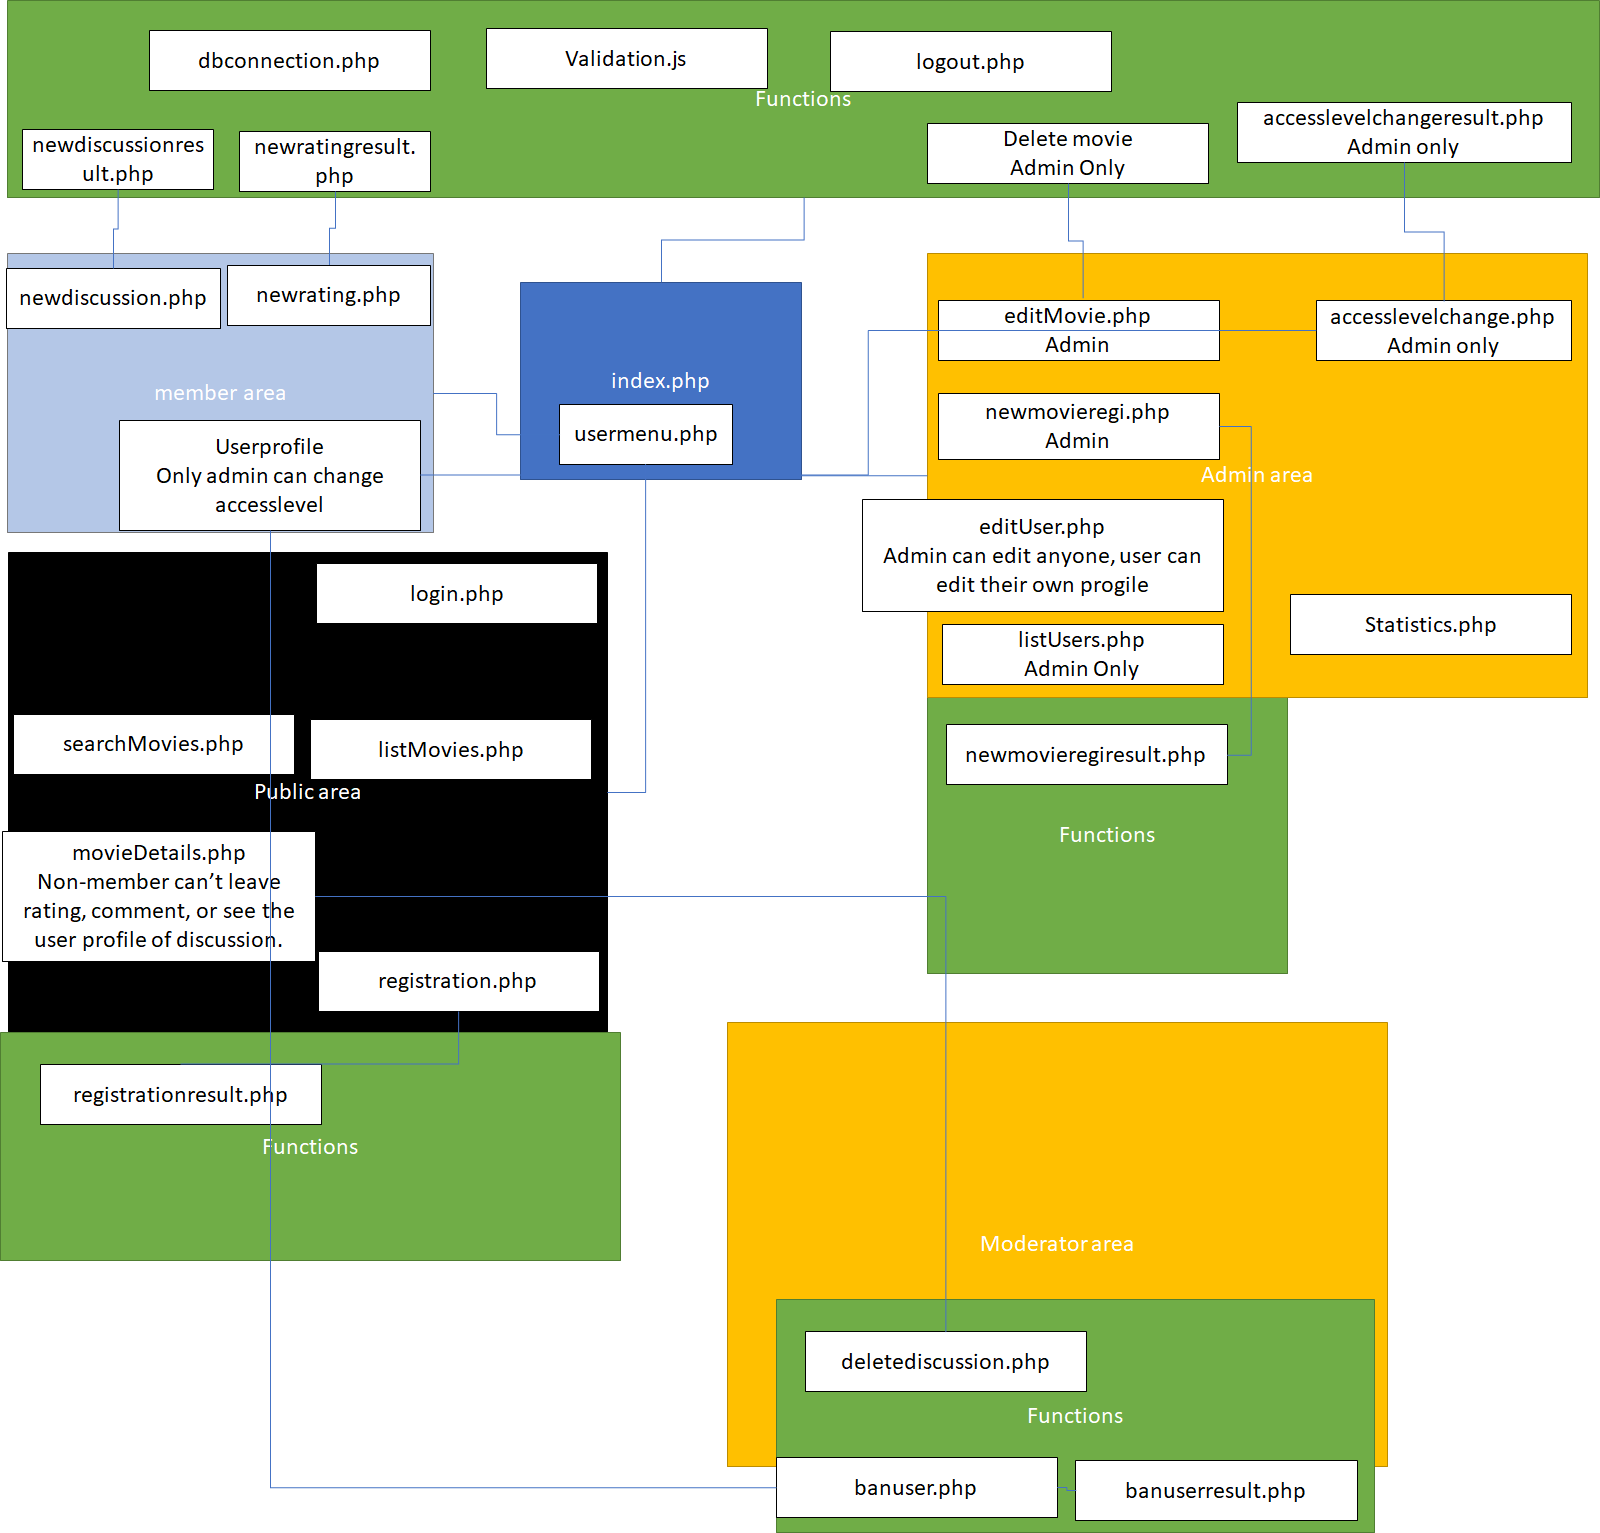
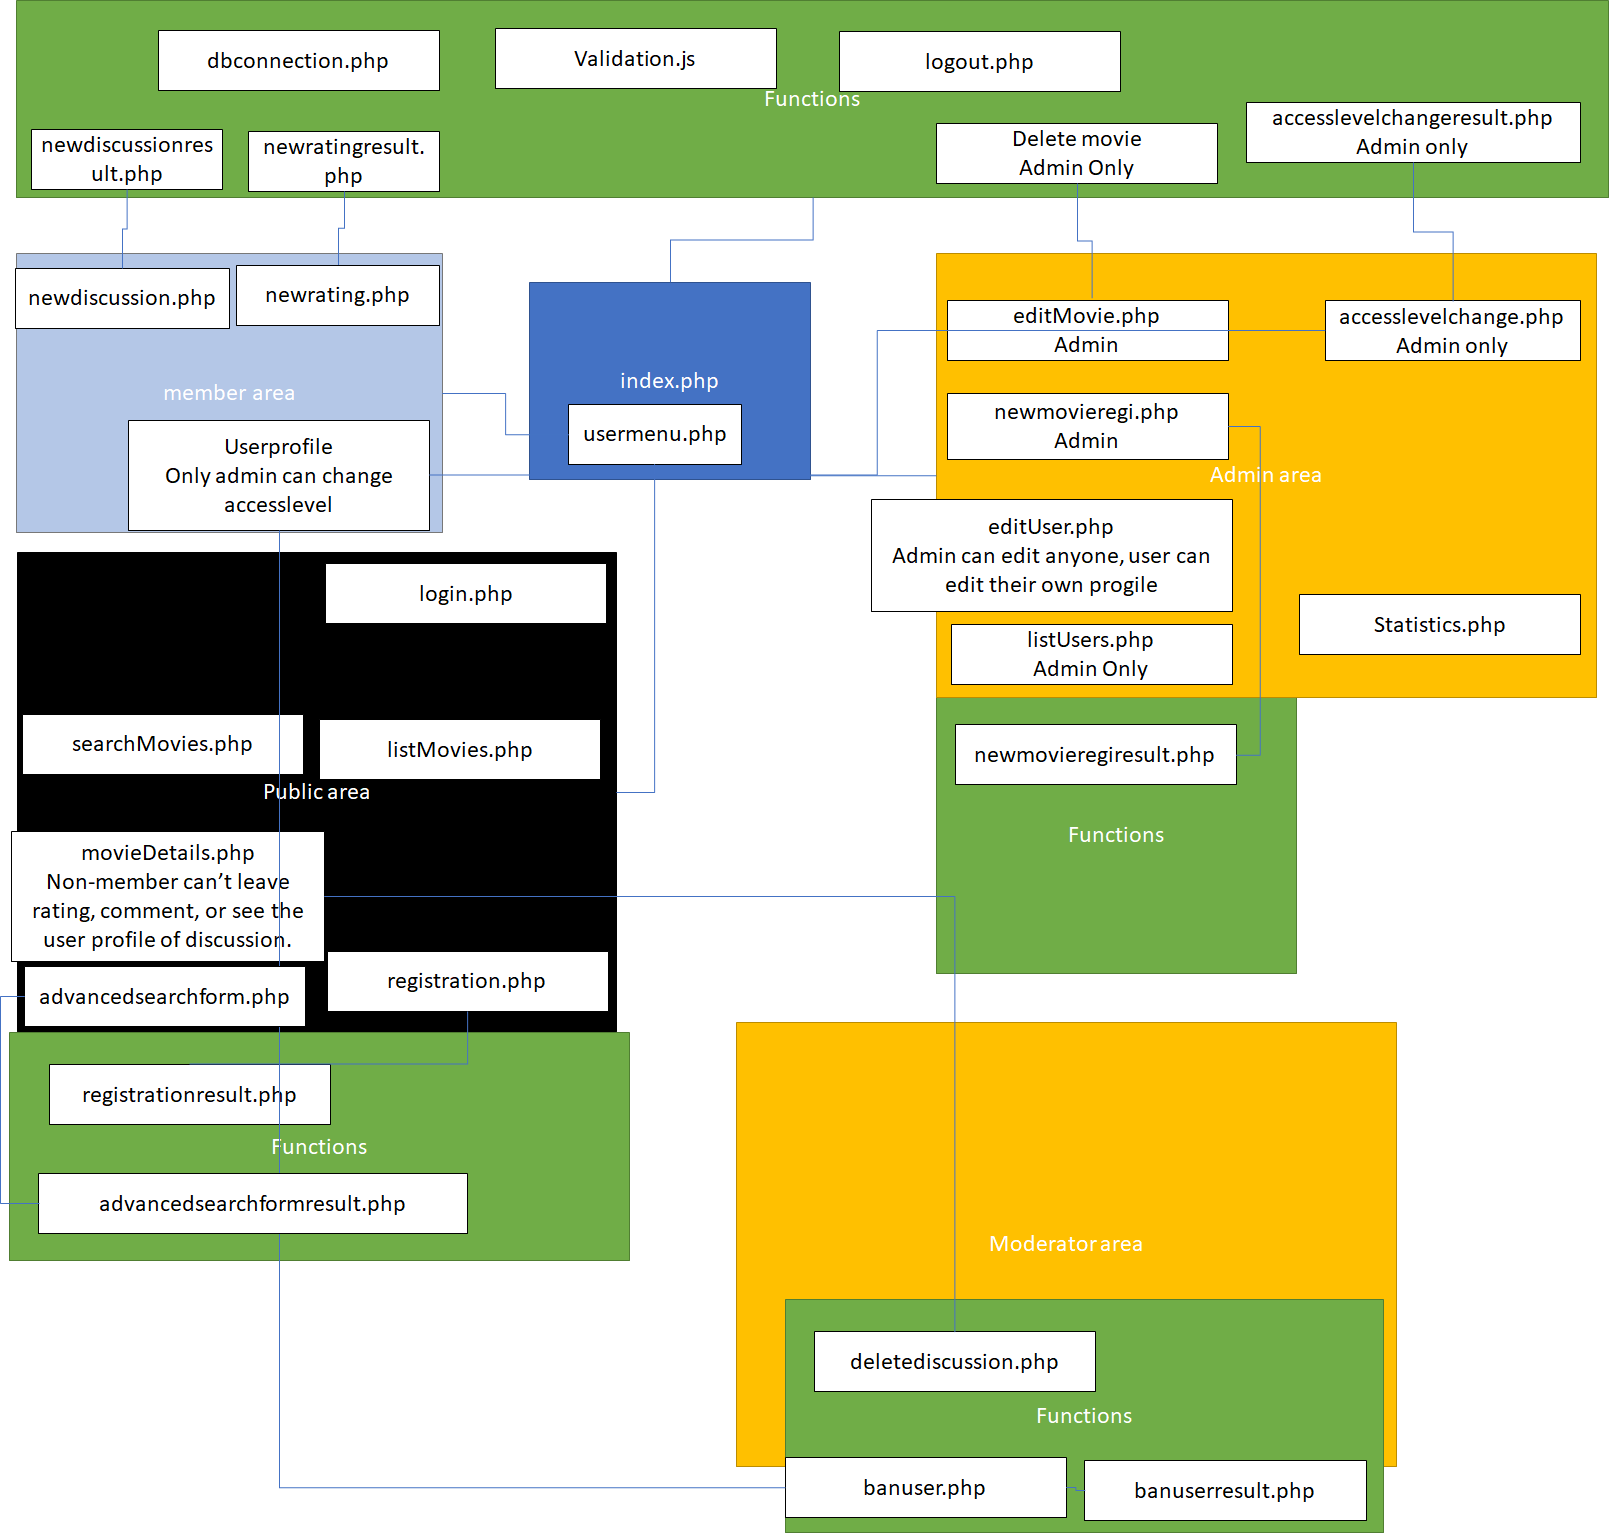
php/advancedsearchform.php initialised

diff --git a/js/validation.js b/js/validation.js
@@ -191,4 +191,20 @@ function ValidatebanuserForm()
 	document.banuser.banreason.focus();
 	return false;
 	}
+
+	alert('Search Term field cannot be blank.');
+
+}
+
+// Validate php/advancedsearchform.php
+
+function ValidateadvancedsearchForm()
+{
+
+	if (document.advancedsearchForm.searchterm.value == '')
+	{
+		alert('Search Term field cannot be blank.');
+	document.advancedsearchForm.searchterm.focus();
+	return false;
+	}
 }

diff --git a/php/advancedsearchresult.php b/php/advancedsearchresult.php
@@ -1,0 +1,181 @@
+<?php
+// connect to database
+require '../func/dbconnection.php';
+
+// Start or resume a session
+if (session_status() == PHP_SESSION_NONE) {
+  session_start();
+}
+
+// Check the access level
+if (!isset($_SESSION['level']))
+{
+  $_SESSION['level'] = '';
+}
+?>
+
+<!DOCTYPE html>
+<html>
+<head>
+  <title>Advanced search result</title>
+  <style type="text/css">
+    th,td {border: 1px solid black; width: 150px;}
+  </style>
+</head>
+
+<body>
+
+<?php require 'navigationbar.php'; ?>
+
+<div class="container">
+
+
+<h2><strong>Advanced search result</strong></h2>
+
+<?php
+  //  delete user if del_id GET data exists
+  if (isset($_GET['del_id']) && ($_SESSION['level'] == 'admin'))
+  {
+	  
+	  $del_query = 'DELETE FROM movies WHERE movie_id = '.$_GET['del_id'];
+    $del_results = mysqli_query($connection,$del_query);
+
+    $del_rating_query = 'DELETE FROM ratings WHERE movie_id = '.$_GET['del_id'];
+    $del_rating_results = mysqli_query($connection,$del_rating_query);
+
+    $del_discussion_query = 'DELETE FROM discussion WHERE movie_id = '.$_GET['del_id'];
+    $del_discussion_results = mysqli_query($connection,$del_discussion_query);
+
+  }
+  
+
+
+
+//   Validation.
+
+$searchterm = $_POST['searchterm'];
+$directorwriters_query = '';
+$plotsummary_query = '';
+$releaseyearvalue_query = '';
+$durationvalue_query = '';
+
+
+// directorwriters value if checked
+if (isset($_POST['directorwriters']))
+{
+    $directorwriters = $_POST['directorwriters'];
+    $directorwriters_query = "OR director LIKE '%".$searchterm."%' OR writers LIKE '%".$searchterm."%' ";
+}
+// plotsummary value if checked
+if (isset($_POST['plotsummary']))
+{
+    $plotsummary = $_POST['plotsummary'];
+    $plotsummary_query = "OR summary LIKE '%".$searchterm."%' ";
+}
+
+
+    // we create this variable and set it to an empty string... if it remains empty by the end
+    // of our validation code, then there was no error found
+    $error_message = '';
+
+// release year checkbox
+if (isset($_POST['releaseyear']) && $_POST['releaseyear'] != 'notimportant')
+{
+    $releaseyear = $_POST['releaseyear'];
+
+    // release year value
+    if (isset($_POST['releaseyearvalue']) && $_POST['releaseyearvalue'] != '')
+    {
+        $releaseyearvalue = $_POST['releaseyearvalue'];
+        $releaseyearvalue_query = "AND release_year = ".$releaseyearvalue." ";
+    }
+    else
+    {
+        $error_message = 'Release year is empty.';
+    }
+}
+
+
+// duration checkbox
+if (isset($_POST['duration']) && $_POST['duration'] != 'notimportant')
+{
+    $duration = $_POST['duration'];
+    // duration value
+
+    if (isset($_POST['durationvalue']) && $_POST['durationvalue'] != '')
+    {
+        $durationvalue = $_POST['durationvalue'];
+        $durationvalue_query = "AND duration = ".$durationvalue." ";
+    }
+    else
+    {
+        $error_message = 'Duration is empty.';
+    }
+}
+
+
+ // if the error_message variable is not empty (i.e. an error has been found)
+  if ($error_message != '')
+  {
+    // we'll just provide the user with the error message and a back link if there is an error
+    // the exit command tells the server/PHP to stop processing the script at that point
+    echo 'Error: '.$error_message.' <a href="javascript: history.back();">Go Back</a>.';
+    echo '</body></html>';
+    exit;
+  }
+
+
+
+$query = "SELECT * FROM movies 
+        WHERE (movie_name LIKE '%".$searchterm."%' ".
+        $directorwriters_query.
+        $plotsummary_query.") ".
+        $releaseyearvalue_query.
+        $durationvalue_query."
+        ORDER BY movie_name";
+
+  
+  // execute the query
+  $results = mysqli_query($connection, $query);
+  
+  // show how many rows the query returned
+  echo '<p>'.$results->num_rows.' movies found.</p>';
+  
+  //start the table in which our user list will be shown
+  echo '<table><tr>';
+  echo '<th>Movie name</th><th>Release year</th><th>Manage</th>';
+  echo '</tr>';
+  
+  //  loop through the result and display them
+  while ($row = $results->fetch_assoc())
+  {
+      echo '<td>'.$row['movie_name'].'</td>';
+      echo '<td>'.$row['release_year'].'</td>';
+
+      echo '<td><a href="movieDetails.php?movie_id='.$row['movie_id'].'">Details</a> ';
+
+
+      if ( $_SESSION['level'] == 'admin' )
+      {
+        echo '<a href="editMovie.php?edit_id='.$row['movie_id'].'">Edit</a> ';
+      }
+
+      if ( $_SESSION['level'] == 'admin')
+      {
+        echo '<a href="listMovies.php?del_id='.$row['movie_id'].'"
+        onclick="return confirm(\'Are you sure you want to delete this user?\');">Delete</a>';
+      }
+
+      echo '</td></tr>';
+      
+
+
+      
+  }
+  echo '</table>';
+
+  ?>
+      </div>
+
+  </body>
+</html>

diff --git a/php/advancedsearchform.php b/php/advancedsearchform.php
@@ -1,0 +1,86 @@
+<?php
+// connect to database
+require '../func/dbconnection.php';
+
+// Start or resume a session
+if (session_status() == PHP_SESSION_NONE) {
+  session_start();
+}
+
+// Check the access level
+if (!isset($_SESSION['level']))
+{
+  $_SESSION['level'] = '';
+}
+?>
+
+<!DOCTYPE html>
+<html>
+<head>
+  <title>Advanced Search</title>
+  <style type="text/css">
+    /* th,td {border: 1px solid black; width: 150px;} */
+  </style>
+    <script src="../js/validation.js"></script>
+</head>
+
+<body>
+
+<?php require 'navigationbar.php'; ?>
+
+<div class="container">
+
+
+<h2><strong>Advanced Search</strong></h2>
+
+
+<!-- Form -->
+<form name="advancedsearchForm" method="post" action="advancedsearchresult.php" onsubmit="return ValidateadvancedsearchForm()">
+<table style="width: 80%">
+<tr>
+    <td>Search Term: </td>
+    <td><input type="text" name="searchterm" required/></td>
+  </tr>
+  <tr>
+    <td>Also Search: </td>
+    <td><input type="checkbox" name="directorwriters" value="directorwriters">Director/Writers    
+    <input type="checkbox" name="plotsummary" value="plotsummary">Plot Summary</td>
+  </tr>
+  <tr>
+    <td>Release Year: </td>
+    <td>
+        <select name="releaseyear">
+            <option value="notimportant" selected="selected">Not Important</option>
+            <option nvalue="lessthan">Less Than</option>
+            <option value="exactly">Exactly</option>
+            <option value="morethan">More Than</option>
+        </select>
+        <input type="text" name="releaseyearvalue" />
+    </td>
+  </tr>
+  <tr>
+    <td>Duration: </td>
+    <td>
+        <select name="duration">
+            <option value="notimportant" selected="selected">Not Important</option>
+            <option value="lessthan">Less Than</option>
+            <option value="exactly">Exactly</option>
+            <option value="morethan">More Than</option>
+        </select>
+        <input type="text" name="durationvalue" />
+
+    </td>
+  </tr>
+  <tr>
+    <td colspan="2" style="text-align: right">
+     <input type="submit">
+    </td>
+  </tr>
+  
+</table>
+</form>
+
+      </div>
+
+  </body>
+</html>

diff --git a/php/usermenu.php b/php/usermenu.php
@@ -8,6 +8,8 @@ if ( !isset($_SESSION['uname']) || $_SESSION['uname'] == '' )
 {
 	echo '* You are not logged in. Log in to see more options<br />';
 	echo '* <a href="php/listMovies.php">List Movie</a><br />';
+	echo '* <a href="php/advancedsearchform.php">Advanced Search</a><br />';
+
 }
 
 else
@@ -36,6 +38,7 @@ if ( $_SESSION['level'] == 'member' or $_SESSION['level'] == 'moderator')
 	echo '* <a href="php/editUser.php?edit_id='.$_SESSION['uname'].'">Edit Profile</a><br />';
 	echo '* <a href="php/userDetails.php?username='.$_SESSION['uname'].'">View Profile</a><br />';
 }	
+echo '* <a href="php/advancedsearchform.php">Advanced Search</a><br />';
 
 
 

diff --git a/php/navigationbar.php b/php/navigationbar.php
@@ -30,8 +30,15 @@ if ( $_SESSION['level'] == 'member' or $_SESSION['level'] == 'moderator' )
 	echo '<li class="nav-item"><a class="nav-link" href="editUser.php?edit_id='.$_SESSION['uname'].'">Edit Profile</a></li><br />';
 	echo '<li class="nav-item"><a class="nav-link" href="userDetails.php?username='.$_SESSION['uname'].'">View Profile</a></li><br />';
 }
+
+
+echo '<li class="nav-item">
+			<a class="nav-link" href="advancedsearchform.php">Advanced Search</a>
+		</li>';
+
 ?>
 	
+
 
 
 	<?php 

diff --git a/php/searchMovies.php b/php/searchMovies.php
@@ -14,7 +14,7 @@ if (!isset($_SESSION['level']))
 <!DOCTYPE html>
 <html>
 <head>
-  <title>List Movies</title>
+  <title>Search Movies</title>
   <style type="text/css">
     th,td {border: 1px solid black; width: 150px;}
   </style>

diff --git a/README.md b/README.md
@@ -38,7 +38,9 @@ Just realised – remember to update the registration page to account for the ne
 
 ### Advanced Search Capabilities (Mark 6)
 - [ ] Feature: Create advanced search feature that can use director, summary, release year, or duration search.
-* Actual time taken:
+* Actual time taken: 2 Hours (03/10/2018) + alpha
+
+* Things need to be fixed: more than/exact/less than option in duration and release year. (php/advancedsearchresult.php)
 
 ## Weekly works
 
